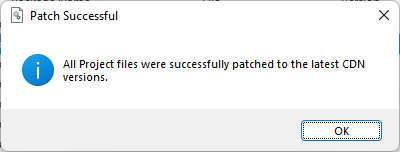
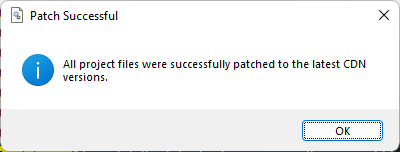
Readme, capture update - add button to open my CDN Picker Project from Github Repo

diff --git a/# CDN Dependency Manager (Standalone).py b/# CDN Dependency Manager (Standalone).py
@@ -8,6 +8,16 @@ import requests
 import tkinter as tk
 from tkinter import ttk
 import tkinter.messagebox as messagebox
+import webbrowser
+
+
+
+def open_github_preview():
+    html_raw_url = "https://raw.githubusercontent.com/Mending-Electronics/Vue-App-CDN.JS-Github-API-Frameworks-info/refs/heads/main/app/index.html"
+    html_preview_url = f"https://htmlpreview.github.io/?{html_raw_url}"
+    print(html_preview_url)
+    webbrowser.open(html_preview_url)
+
 
 def list_cdn_dependencies(dir):
     dependencies = {}
@@ -136,7 +146,7 @@ def display_dependencies():
         data = json.load(f)
 
     root = tk.Tk()
-    root.title("CDN Dependencies Manager")
+    root.title("CDN Dependency Manager")
     root.configure(bg='#0f2537')  # Set window background color
 
     try:
@@ -148,20 +158,8 @@ def display_dependencies():
 
 
     # Labels
-    label = tk.Label(root, text="CDN Dependencies Manager", font=("Arial",20), bg='#0f2537', fg='white').pack(pady=15)
+    label = tk.Label(root, text="CDN Dependency Manager", font=("Verdana",20), bg='#0f2537', fg='white').pack(pady=15)
 
-    # Labels
-    text_widget = tk.Text(root, bg='#0f2537', fg='white', font=("Arial", 12), width=70, height=1)
-    text_widget.insert(tk.END, "Double click on ")
-    text_widget.insert(tk.END, " Patch It now ! ", ("patch_style"))
-    text_widget.insert(tk.END, " text to patch the latest cdn version in the project file.")
-
-    text_widget.tag_configure("patch_style", font=("Arial", 10), background='yellow', foreground='black')
-    text_widget.tag_configure("center", justify='center')
-
-    text_widget.tag_add("center", "1.0", "end")
-
-    text_widget.pack()
 
     # Add a "Patch All!" button
     style = ttk.Style()
@@ -248,7 +246,7 @@ def display_dependencies():
             if 'mismatch' in tree.item(item, 'tags'):
                 patch_dependency(item=item, show_message=False)
         # Show a message box to inform the user that all CDNs were correctly patched
-        messagebox.showinfo("Patch Successful", "All Project files were successfully patched to the latest CDN versions.")
+        messagebox.showinfo("Patch Successful", "All project files were successfully patched to the latest CDN versions.")
 
     patch_all_button.config(command=patch_all)
 
@@ -256,6 +254,28 @@ def display_dependencies():
     tree.bind('<Double-1>', patch_dependency)
 
     tree.pack(expand=True, fill='both')
+
+    # window footer
+
+    # Labels
+    text_widget = tk.Text(root, bg='#0f2537', fg='white', font=("Arial", 12), width=70, height=1)
+    text_widget.insert(tk.END, "Double click on ")
+    text_widget.insert(tk.END, " Patch It now ! ", ("patch_style"))
+    text_widget.insert(tk.END, " to patch the latest cdn version in the project file.")
+
+    text_widget.tag_configure("patch_style", font=("Arial", 10), background='yellow', foreground='black')
+    text_widget.tag_configure("center", justify='center')
+
+    text_widget.tag_add("center", "1.0", "end")
+
+    text_widget.pack()
+    
+    me_cdn_picker_link_btn = ttk.Button(root, text=" Mending-Electronics CDN Picker ", style="TButton", command=open_github_preview)
+    me_cdn_picker_link_btn.pack(pady=5)
+
+    label = tk.Label(root, text="Mending-Electronics - 2024", font=("Verdana", 10), bg='#0f2537', fg='white').pack(pady=5)
+
+    
     root.mainloop()
 
 display_dependencies()

diff --git a/testing samples/# CDN Dependency Manager (Standalone).py b/testing samples/# CDN Dependency Manager (Standalone).py
@@ -8,6 +8,16 @@ import requests
 import tkinter as tk
 from tkinter import ttk
 import tkinter.messagebox as messagebox
+import webbrowser
+
+
+
+def open_github_preview():
+    html_raw_url = "https://raw.githubusercontent.com/Mending-Electronics/Vue-App-CDN.JS-Github-API-Frameworks-info/refs/heads/main/app/index.html"
+    html_preview_url = f"https://htmlpreview.github.io/?{html_raw_url}"
+    print(html_preview_url)
+    webbrowser.open(html_preview_url)
+
 
 def list_cdn_dependencies(dir):
     dependencies = {}
@@ -136,7 +146,7 @@ def display_dependencies():
         data = json.load(f)
 
     root = tk.Tk()
-    root.title("CDN Dependencies Manager")
+    root.title("CDN Dependency Manager")
     root.configure(bg='#0f2537')  # Set window background color
 
     try:
@@ -148,20 +158,8 @@ def display_dependencies():
 
 
     # Labels
-    label = tk.Label(root, text="CDN Dependencies Manager", font=("Arial",20), bg='#0f2537', fg='white').pack(pady=15)
+    label = tk.Label(root, text="CDN Dependency Manager", font=("Verdana",20), bg='#0f2537', fg='white').pack(pady=15)
 
-    # Labels
-    text_widget = tk.Text(root, bg='#0f2537', fg='white', font=("Arial", 12), width=70, height=1)
-    text_widget.insert(tk.END, "Double click on ")
-    text_widget.insert(tk.END, " Patch It now ! ", ("patch_style"))
-    text_widget.insert(tk.END, " text to patch the latest cdn version in the project file.")
-
-    text_widget.tag_configure("patch_style", font=("Arial", 10), background='yellow', foreground='black')
-    text_widget.tag_configure("center", justify='center')
-
-    text_widget.tag_add("center", "1.0", "end")
-
-    text_widget.pack()
 
     # Add a "Patch All!" button
     style = ttk.Style()
@@ -248,7 +246,7 @@ def display_dependencies():
             if 'mismatch' in tree.item(item, 'tags'):
                 patch_dependency(item=item, show_message=False)
         # Show a message box to inform the user that all CDNs were correctly patched
-        messagebox.showinfo("Patch Successful", "All Project files were successfully patched to the latest CDN versions.")
+        messagebox.showinfo("Patch Successful", "All project files were successfully patched to the latest CDN versions.")
 
     patch_all_button.config(command=patch_all)
 
@@ -256,6 +254,28 @@ def display_dependencies():
     tree.bind('<Double-1>', patch_dependency)
 
     tree.pack(expand=True, fill='both')
+
+    # window footer
+
+    # Labels
+    text_widget = tk.Text(root, bg='#0f2537', fg='white', font=("Arial", 12), width=70, height=1)
+    text_widget.insert(tk.END, "Double click on ")
+    text_widget.insert(tk.END, " Patch It now ! ", ("patch_style"))
+    text_widget.insert(tk.END, " to patch the latest cdn version in the project file.")
+
+    text_widget.tag_configure("patch_style", font=("Arial", 10), background='yellow', foreground='black')
+    text_widget.tag_configure("center", justify='center')
+
+    text_widget.tag_add("center", "1.0", "end")
+
+    text_widget.pack()
+    
+    me_cdn_picker_link_btn = ttk.Button(root, text=" Mending-Electronics CDN Picker ", style="TButton", command=open_github_preview)
+    me_cdn_picker_link_btn.pack(pady=5)
+
+    label = tk.Label(root, text="Mending-Electronics - 2024", font=("Verdana", 10), bg='#0f2537', fg='white').pack(pady=5)
+
+    
     root.mainloop()
 
 display_dependencies()

diff --git a/README.md b/README.md
@@ -1,7 +1,7 @@
 # CDN Dependency Manager Tool
 
 ## Overview
-CDN Dependency Checker is a standalone Python script designed to scan your project directory files, listing all CDN dependencies used. It generates a `packages.json` file similar to a Node.js project and queries common CDN APIs to fetch the latest versions of these packages. Users can easily update the CDN versions in their project files by clicking the patch button.
+CDN Dependency Manager is a standalone Python script designed to scan your project directory files and list all CDN dependencies used. It generates a `packages.json` file similar to a Node.js project and queries common CDN APIs to fetch the latest versions of these packages. Users can easily update the CDN versions in their project files by clicking the patch button.
 
 ## Features
 - Scans CDN dependencies in *.html, *.js, *.jsx, *.vue, *.php, and *.py files.
@@ -9,7 +9,7 @@ CDN Dependency Checker is a standalone Python script designed to scan your proje
 - Fetches the latest versions of CDN packages from common APIs.
 - Allows users to patch CDN versions with a simple click.
 
-**CDNs Supported :**
+**CDNs Supported:**
 - https://cdnjs.cloudflare.com
 - https://cdn.jsdelivr.net
 
@@ -22,34 +22,32 @@ CDN Dependency Checker is a standalone Python script designed to scan your proje
     ```bash
     python '#CDN Dependencies Tool (Standalone).py'
     ```
-2. (Hide process) Check each files in your project directory to list used CDN dependencies in each file. Requests the CDN APIs to get the latest versions of the packages, comparing them to the used CDN package versions. Generates a `packages.json`.
+2. The script will check each file in your project directory to list the CDN dependencies used in each file. It will request the CDN APIs to get the latest versions of the packages and compare them to the used CDN package versions. It will then generate a `packages.json` file.
 3. Review the listed CDN dependencies and their versions in a table.
 4. Click the patch button to update the CDN versions in your project files.
 
-
-## Sample of Captures
+## Sample Captures
 
 ************
 
 **Patch only one project file CDN version**
 
-![Capture](https://raw.githubusercontent.com/Mending-Electronics/CDN-Dependencies-Manager-Standalone-Python-Script/main/captures/capture1.png "Capture")
+![Capture](https://raw.githubusercontent.com/Mending-Electronics/CDN-Dependency-Manager-Standalone-Python-Script/main/captures/capture1.png "Capture")
 
-![Capture](https://raw.githubusercontent.com/Mending-Electronics/CDN-Dependencies-Manager-Standalone-Python-Script/main/captures/capture2.png "Capture")
+![Capture](https://raw.githubusercontent.com/Mending-Electronics/CDN-Dependency-Manager-Standalone-Python-Script/main/captures/capture2.png "Capture")
 
 *************
 
-**Patch All project files CDN's versions**
+**Patch all project files CDN versions**
 
-![Capture](https://raw.githubusercontent.com/Mending-Electronics/CDN-Dependencies-Manager-Standalone-Python-Script/main/captures/capture3.png "Capture")
+![Capture](https://raw.githubusercontent.com/Mending-Electronics/CDN-Dependency-Manager-Standalone-Python-Script/main/captures/capture3.png "Capture")
 
-![Capture](https://raw.githubusercontent.com/Mending-Electronics/CDN-Dependencies-Manager-Standalone-Python-Script/main/captures/capture4.png "Capture")
+![Capture](https://raw.githubusercontent.com/Mending-Electronics/CDN-Dependency-Manager-Standalone-Python-Script/main/captures/capture4.png "Capture")
 
-![Capture](https://raw.githubusercontent.com/Mending-Electronics/CDN-Dependencies-Manager-Standalone-Python-Script/main/captures/capture5.png "Capture")
+![Capture](https://raw.githubusercontent.com/Mending-Electronics/CDN-Dependency-Manager-Standalone-Python-Script/main/captures/capture5.png "Capture")
 
-
-## Sample of 'packages.json' output
-```bash
+## Sample 'packages.json' Output
+```json
 {
   "dependencies": {
     "index.html": [
@@ -83,8 +81,6 @@ CDN Dependency Checker is a standalone Python script designed to scan your proje
   }
 }
 ```
-
-
 
 ## License
 This project is licensed under the MIT License. See the LICENSE file for details.
